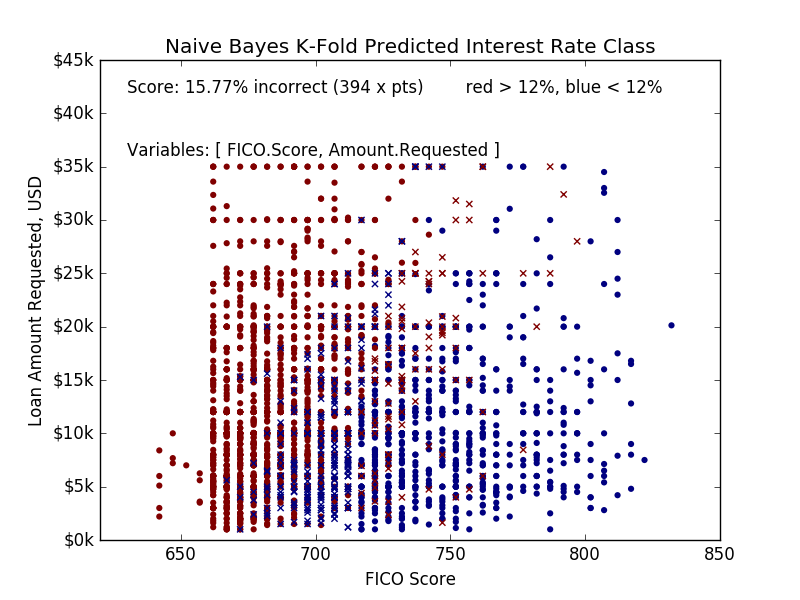
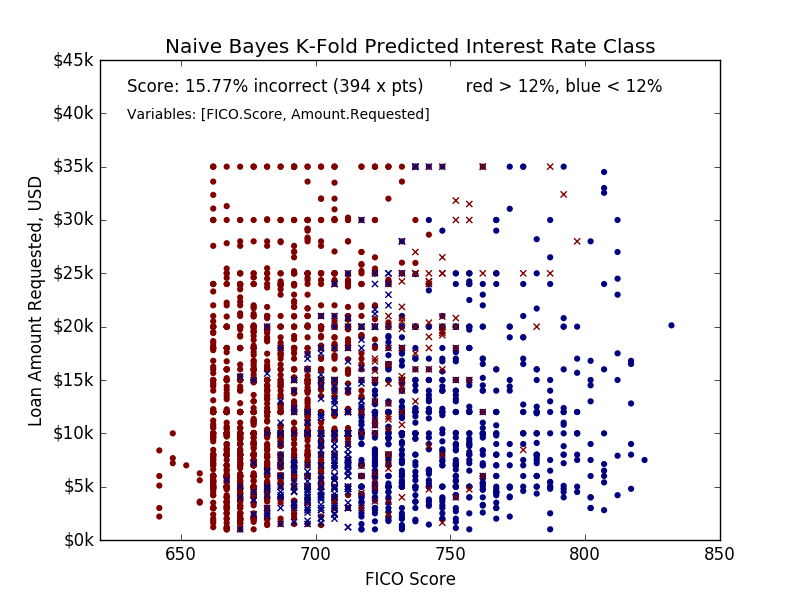
update naive_bayes kfold plots

Changed region(s): [[0.1562, 0.12, 0.5312, 0.21], [0.1562, 0.24, 0.625, 0.27], [0.5938, 0.12, 0.8438, 0.18]]

diff --git a/naive_bayes_kfold.py b/naive_bayes_kfold.py
@@ -56,13 +56,9 @@ loans_target = loansData['IR_TF']
 print 'loans_target head\n', loans_target[:5]
 
 def getVarStr(indep_vars):
-    lineLength = 60
-#   varstr = 'Variables: ' + str(indep_vars)
+    lineLength = 80
     vars = list(indep_vars)
-#   vars.insert(0, 'Variables:')
-#   st = reduce( (lambda x,y: x + ' ' + y), ss)
-#   su = st.split()
-    sw = ["Variables: [ "]
+    sw = ["Variables: ["]
     last = vars[-1]
     vars = map( (lambda s: s + ","), vars)
     vars[-1] = last
@@ -70,11 +66,13 @@ def getVarStr(indep_vars):
     for s in vars:
         if len(sw[ix]) + len(s) + 1 > lineLength:
             ix += 1
-            sw.append("  ")
-        sw[ix] += s + " "
+            sw.append("    ")
+        sw[ix] += s
+        if s != last:
+            sw[ix] += " "
     sw[ix] += "]"
     varstr = reduce( (lambda a,b: a + "\n" + b), sw)
-    return varstr  # , len(sw)
+    return varstr, len(sw)
 
 # plot predicted and incorrect target values
 def plot_predict(label, score, indep_variables, correct, incorrect):
@@ -92,9 +90,10 @@ def plot_predict(label, score, indep_variables, correct, incorrect):
     plt.title('Naive Bayes K-Fold Predicted Interest Rate Class')
     sc = 0.01 * float(int(10000 * float(score) / loans_target.shape[0]))
     txt = 'Score: ' + str(sc) + '% incorrect (' + str(score) + ' x pts)'
-    txt += '        red > 12%, blue < 12%\n'
-    plt.text(630, 40000, txt)
-    plt.text(630, 36000, getVarStr(indep_variables))
+    txt += '        red > 12%, blue < 12%'
+    plt.text(630, 42000, txt)
+    txt, pos = getVarStr(indep_variables)
+    plt.text(630, 38000 + 1500*(2-pos), txt, fontsize=10)
     plt.savefig(plotdir+label+'_bayes_intrate_predict.png')
 
 def plot_theo(label, score, indep_variables, correct, incorrect):
@@ -114,8 +113,9 @@ def plot_theo(label, score, indep_variables, correct, incorrect):
     sc = 0.01 * float(int(10000 * float(score) / loans_target.shape[0]))
     txt = 'Score: ' + str(sc) + '% incorrect (' + str(score) + ' x pts)'
     txt += '        red > 12%, blue < 12%'
-    txt += '\nVariables: ' + str(indep_variables)
-    plt.text(630, 40000, txt)
+    plt.text(630, 42000, txt)
+    txt, pos = getVarStr(indep_variables)
+    plt.text(630, 38000 + 1500*(2-pos), txt, fontsize=10)
     plt.savefig(plotdir+label+'_bayes_intrate_theo.png')
 
 def naive_bayes_fold(train_data, train_target, test_data):
